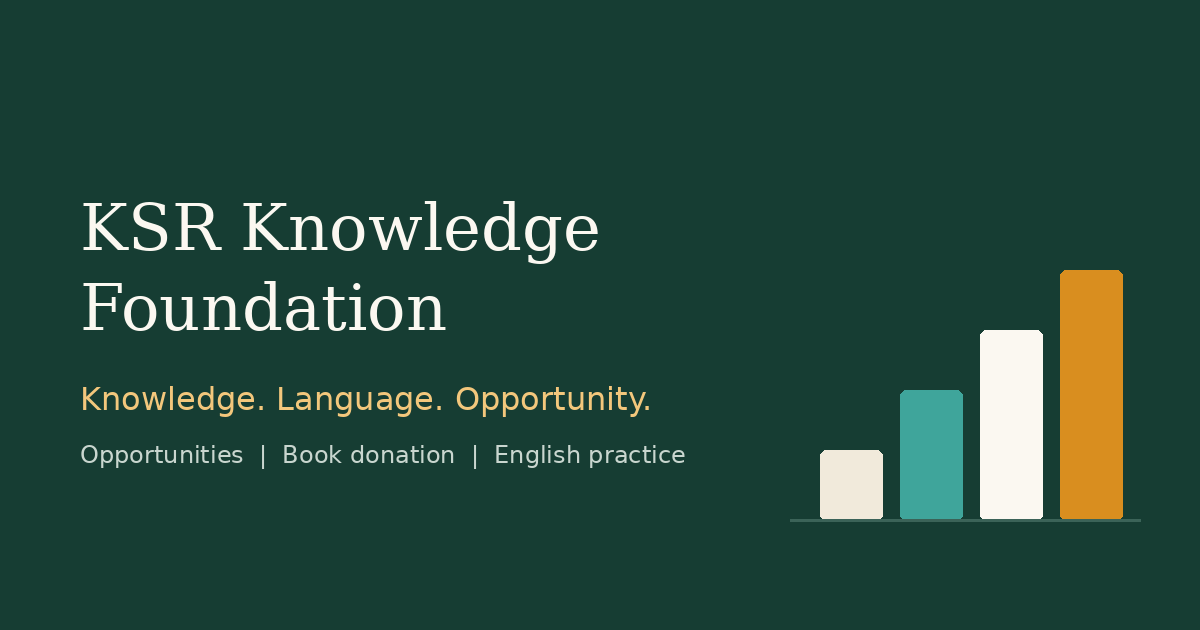
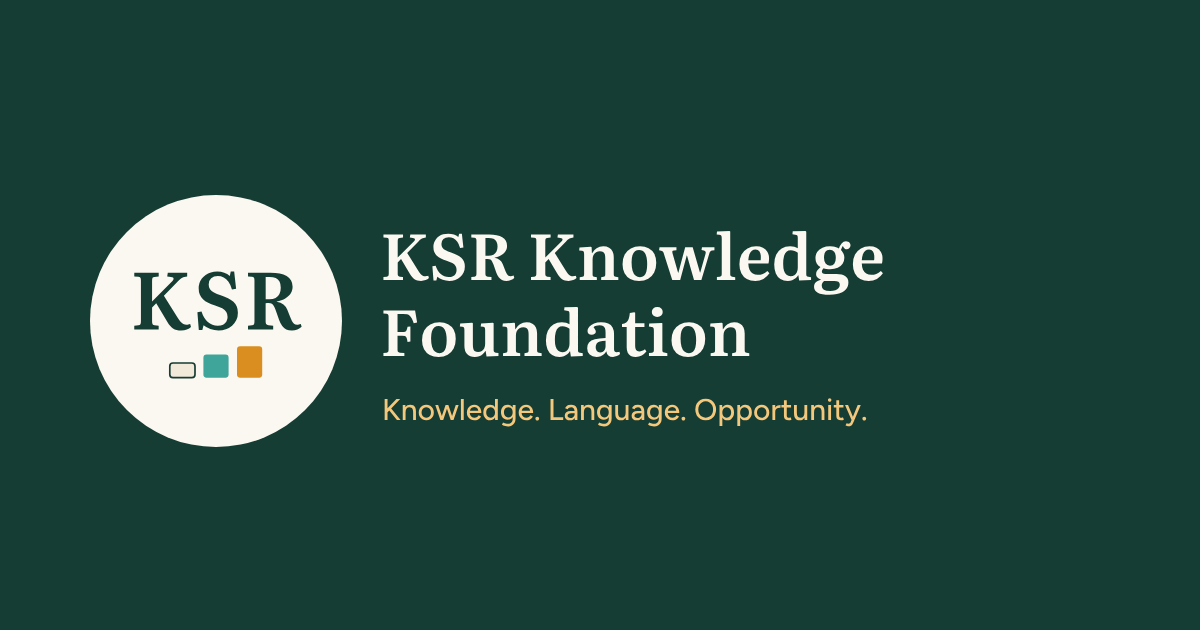
Add files via upload

Changed region(s): [[0.0617, 0.3016, 0.74, 0.754], [0.6475, 0.4222, 0.9558, 0.8444]]

diff --git a/about.html b/about.html
@@ -27,7 +27,7 @@
 <a class="skip-link" href="#main">Skip to content</a>
 <header class="site-header">
   <div class="wrap header-inner">
-    <a class="brand" href="index.html"><svg class="brand-mark" viewBox="0 0 36 36" aria-hidden="true"><rect width="36" height="36" rx="9" fill="#163D33"/><rect x="7" y="19" width="6" height="10" rx="1.2" fill="#F1EADB"/><rect x="15" y="13" width="6" height="16" rx="1.2" fill="#3FA59B"/><rect x="23" y="7" width="6" height="22" rx="1.2" fill="#D98E1F"/></svg><span class="brand-name"><span data-org>KSR Knowledge Foundation</span><small data-tagline>Knowledge. Language. Opportunity.</small></span></a>
+    <a class="brand" href="index.html"><img class="brand-mark" src="logo.svg" width="40" height="40" alt=""><span class="brand-name"><span data-org>KSR Knowledge Foundation</span><small data-tagline>Knowledge. Language. Opportunity.</small></span></a>
     <button class="nav-toggle" type="button" aria-expanded="false" aria-controls="site-nav"><svg width="18" height="18" viewBox="0 0 18 18" aria-hidden="true"><path d="M2 4h14M2 9h14M2 14h14" stroke="currentColor" stroke-width="2" stroke-linecap="round"/></svg><span>Menu</span></button>
     <nav class="site-nav" id="site-nav" aria-label="Main">
       <ul class="nav-list"><li class="nav-home"><a href="index.html">Home</a></li><li><a href="about.html" aria-current="page">About</a></li><li><a href="opportunities.html">Opportunities</a></li><li><a href="books.html">Books</a></li><li><a href="english.html">English</a></li><li><a href="events.html">Events</a></li><li><a href="learn.html">Learning hub</a></li><li><a href="get-involved.html">Get involved</a></li><li><a href="contact.html">Contact</a></li><li><a class="btn btn-primary" href="join.html">Join</a></li></ul>

diff --git a/books.html b/books.html
@@ -27,7 +27,7 @@
 <a class="skip-link" href="#main">Skip to content</a>
 <header class="site-header">
   <div class="wrap header-inner">
-    <a class="brand" href="index.html"><svg class="brand-mark" viewBox="0 0 36 36" aria-hidden="true"><rect width="36" height="36" rx="9" fill="#163D33"/><rect x="7" y="19" width="6" height="10" rx="1.2" fill="#F1EADB"/><rect x="15" y="13" width="6" height="16" rx="1.2" fill="#3FA59B"/><rect x="23" y="7" width="6" height="22" rx="1.2" fill="#D98E1F"/></svg><span class="brand-name"><span data-org>KSR Knowledge Foundation</span><small data-tagline>Knowledge. Language. Opportunity.</small></span></a>
+    <a class="brand" href="index.html"><img class="brand-mark" src="logo.svg" width="40" height="40" alt=""><span class="brand-name"><span data-org>KSR Knowledge Foundation</span><small data-tagline>Knowledge. Language. Opportunity.</small></span></a>
     <button class="nav-toggle" type="button" aria-expanded="false" aria-controls="site-nav"><svg width="18" height="18" viewBox="0 0 18 18" aria-hidden="true"><path d="M2 4h14M2 9h14M2 14h14" stroke="currentColor" stroke-width="2" stroke-linecap="round"/></svg><span>Menu</span></button>
     <nav class="site-nav" id="site-nav" aria-label="Main">
       <ul class="nav-list"><li class="nav-home"><a href="index.html">Home</a></li><li><a href="about.html">About</a></li><li><a href="opportunities.html">Opportunities</a></li><li><a href="books.html" aria-current="page">Books</a></li><li><a href="english.html">English</a></li><li><a href="events.html">Events</a></li><li><a href="learn.html">Learning hub</a></li><li><a href="get-involved.html">Get involved</a></li><li><a href="contact.html">Contact</a></li><li><a class="btn btn-primary" href="join.html">Join</a></li></ul>

diff --git a/contact.html b/contact.html
@@ -27,7 +27,7 @@
 <a class="skip-link" href="#main">Skip to content</a>
 <header class="site-header">
   <div class="wrap header-inner">
-    <a class="brand" href="index.html"><svg class="brand-mark" viewBox="0 0 36 36" aria-hidden="true"><rect width="36" height="36" rx="9" fill="#163D33"/><rect x="7" y="19" width="6" height="10" rx="1.2" fill="#F1EADB"/><rect x="15" y="13" width="6" height="16" rx="1.2" fill="#3FA59B"/><rect x="23" y="7" width="6" height="22" rx="1.2" fill="#D98E1F"/></svg><span class="brand-name"><span data-org>KSR Knowledge Foundation</span><small data-tagline>Knowledge. Language. Opportunity.</small></span></a>
+    <a class="brand" href="index.html"><img class="brand-mark" src="logo.svg" width="40" height="40" alt=""><span class="brand-name"><span data-org>KSR Knowledge Foundation</span><small data-tagline>Knowledge. Language. Opportunity.</small></span></a>
     <button class="nav-toggle" type="button" aria-expanded="false" aria-controls="site-nav"><svg width="18" height="18" viewBox="0 0 18 18" aria-hidden="true"><path d="M2 4h14M2 9h14M2 14h14" stroke="currentColor" stroke-width="2" stroke-linecap="round"/></svg><span>Menu</span></button>
     <nav class="site-nav" id="site-nav" aria-label="Main">
       <ul class="nav-list"><li class="nav-home"><a href="index.html">Home</a></li><li><a href="about.html">About</a></li><li><a href="opportunities.html">Opportunities</a></li><li><a href="books.html">Books</a></li><li><a href="english.html">English</a></li><li><a href="events.html">Events</a></li><li><a href="learn.html">Learning hub</a></li><li><a href="get-involved.html">Get involved</a></li><li><a href="contact.html" aria-current="page">Contact</a></li><li><a class="btn btn-primary" href="join.html">Join</a></li></ul>

diff --git a/english.html b/english.html
@@ -27,7 +27,7 @@
 <a class="skip-link" href="#main">Skip to content</a>
 <header class="site-header">
   <div class="wrap header-inner">
-    <a class="brand" href="index.html"><svg class="brand-mark" viewBox="0 0 36 36" aria-hidden="true"><rect width="36" height="36" rx="9" fill="#163D33"/><rect x="7" y="19" width="6" height="10" rx="1.2" fill="#F1EADB"/><rect x="15" y="13" width="6" height="16" rx="1.2" fill="#3FA59B"/><rect x="23" y="7" width="6" height="22" rx="1.2" fill="#D98E1F"/></svg><span class="brand-name"><span data-org>KSR Knowledge Foundation</span><small data-tagline>Knowledge. Language. Opportunity.</small></span></a>
+    <a class="brand" href="index.html"><img class="brand-mark" src="logo.svg" width="40" height="40" alt=""><span class="brand-name"><span data-org>KSR Knowledge Foundation</span><small data-tagline>Knowledge. Language. Opportunity.</small></span></a>
     <button class="nav-toggle" type="button" aria-expanded="false" aria-controls="site-nav"><svg width="18" height="18" viewBox="0 0 18 18" aria-hidden="true"><path d="M2 4h14M2 9h14M2 14h14" stroke="currentColor" stroke-width="2" stroke-linecap="round"/></svg><span>Menu</span></button>
     <nav class="site-nav" id="site-nav" aria-label="Main">
       <ul class="nav-list"><li class="nav-home"><a href="index.html">Home</a></li><li><a href="about.html">About</a></li><li><a href="opportunities.html">Opportunities</a></li><li><a href="books.html">Books</a></li><li><a href="english.html" aria-current="page">English</a></li><li><a href="events.html">Events</a></li><li><a href="learn.html">Learning hub</a></li><li><a href="get-involved.html">Get involved</a></li><li><a href="contact.html">Contact</a></li><li><a class="btn btn-primary" href="join.html">Join</a></li></ul>

diff --git a/events.html b/events.html
@@ -27,7 +27,7 @@
 <a class="skip-link" href="#main">Skip to content</a>
 <header class="site-header">
   <div class="wrap header-inner">
-    <a class="brand" href="index.html"><svg class="brand-mark" viewBox="0 0 36 36" aria-hidden="true"><rect width="36" height="36" rx="9" fill="#163D33"/><rect x="7" y="19" width="6" height="10" rx="1.2" fill="#F1EADB"/><rect x="15" y="13" width="6" height="16" rx="1.2" fill="#3FA59B"/><rect x="23" y="7" width="6" height="22" rx="1.2" fill="#D98E1F"/></svg><span class="brand-name"><span data-org>KSR Knowledge Foundation</span><small data-tagline>Knowledge. Language. Opportunity.</small></span></a>
+    <a class="brand" href="index.html"><img class="brand-mark" src="logo.svg" width="40" height="40" alt=""><span class="brand-name"><span data-org>KSR Knowledge Foundation</span><small data-tagline>Knowledge. Language. Opportunity.</small></span></a>
     <button class="nav-toggle" type="button" aria-expanded="false" aria-controls="site-nav"><svg width="18" height="18" viewBox="0 0 18 18" aria-hidden="true"><path d="M2 4h14M2 9h14M2 14h14" stroke="currentColor" stroke-width="2" stroke-linecap="round"/></svg><span>Menu</span></button>
     <nav class="site-nav" id="site-nav" aria-label="Main">
       <ul class="nav-list"><li class="nav-home"><a href="index.html">Home</a></li><li><a href="about.html">About</a></li><li><a href="opportunities.html">Opportunities</a></li><li><a href="books.html">Books</a></li><li><a href="english.html">English</a></li><li><a href="events.html" aria-current="page">Events</a></li><li><a href="learn.html">Learning hub</a></li><li><a href="get-involved.html">Get involved</a></li><li><a href="contact.html">Contact</a></li><li><a class="btn btn-primary" href="join.html">Join</a></li></ul>

diff --git a/get-involved.html b/get-involved.html
@@ -27,7 +27,7 @@
 <a class="skip-link" href="#main">Skip to content</a>
 <header class="site-header">
   <div class="wrap header-inner">
-    <a class="brand" href="index.html"><svg class="brand-mark" viewBox="0 0 36 36" aria-hidden="true"><rect width="36" height="36" rx="9" fill="#163D33"/><rect x="7" y="19" width="6" height="10" rx="1.2" fill="#F1EADB"/><rect x="15" y="13" width="6" height="16" rx="1.2" fill="#3FA59B"/><rect x="23" y="7" width="6" height="22" rx="1.2" fill="#D98E1F"/></svg><span class="brand-name"><span data-org>KSR Knowledge Foundation</span><small data-tagline>Knowledge. Language. Opportunity.</small></span></a>
+    <a class="brand" href="index.html"><img class="brand-mark" src="logo.svg" width="40" height="40" alt=""><span class="brand-name"><span data-org>KSR Knowledge Foundation</span><small data-tagline>Knowledge. Language. Opportunity.</small></span></a>
     <button class="nav-toggle" type="button" aria-expanded="false" aria-controls="site-nav"><svg width="18" height="18" viewBox="0 0 18 18" aria-hidden="true"><path d="M2 4h14M2 9h14M2 14h14" stroke="currentColor" stroke-width="2" stroke-linecap="round"/></svg><span>Menu</span></button>
     <nav class="site-nav" id="site-nav" aria-label="Main">
       <ul class="nav-list"><li class="nav-home"><a href="index.html">Home</a></li><li><a href="about.html">About</a></li><li><a href="opportunities.html">Opportunities</a></li><li><a href="books.html">Books</a></li><li><a href="english.html">English</a></li><li><a href="events.html">Events</a></li><li><a href="learn.html">Learning hub</a></li><li><a href="get-involved.html" aria-current="page">Get involved</a></li><li><a href="contact.html">Contact</a></li><li><a class="btn btn-primary" href="join.html">Join</a></li></ul>

diff --git a/index.html b/index.html
@@ -27,7 +27,7 @@
 <a class="skip-link" href="#main">Skip to content</a>
 <header class="site-header">
   <div class="wrap header-inner">
-    <a class="brand" href="index.html"><svg class="brand-mark" viewBox="0 0 36 36" aria-hidden="true"><rect width="36" height="36" rx="9" fill="#163D33"/><rect x="7" y="19" width="6" height="10" rx="1.2" fill="#F1EADB"/><rect x="15" y="13" width="6" height="16" rx="1.2" fill="#3FA59B"/><rect x="23" y="7" width="6" height="22" rx="1.2" fill="#D98E1F"/></svg><span class="brand-name"><span data-org>KSR Knowledge Foundation</span><small data-tagline>Knowledge. Language. Opportunity.</small></span></a>
+    <a class="brand" href="index.html"><img class="brand-mark" src="logo.svg" width="40" height="40" alt=""><span class="brand-name"><span data-org>KSR Knowledge Foundation</span><small data-tagline>Knowledge. Language. Opportunity.</small></span></a>
     <button class="nav-toggle" type="button" aria-expanded="false" aria-controls="site-nav"><svg width="18" height="18" viewBox="0 0 18 18" aria-hidden="true"><path d="M2 4h14M2 9h14M2 14h14" stroke="currentColor" stroke-width="2" stroke-linecap="round"/></svg><span>Menu</span></button>
     <nav class="site-nav" id="site-nav" aria-label="Main">
       <ul class="nav-list"><li class="nav-home"><a href="index.html" aria-current="page">Home</a></li><li><a href="about.html">About</a></li><li><a href="opportunities.html">Opportunities</a></li><li><a href="books.html">Books</a></li><li><a href="english.html">English</a></li><li><a href="events.html">Events</a></li><li><a href="learn.html">Learning hub</a></li><li><a href="get-involved.html">Get involved</a></li><li><a href="contact.html">Contact</a></li><li><a class="btn btn-primary" href="join.html">Join</a></li></ul>

diff --git a/join.html b/join.html
@@ -27,7 +27,7 @@
 <a class="skip-link" href="#main">Skip to content</a>
 <header class="site-header">
   <div class="wrap header-inner">
-    <a class="brand" href="index.html"><svg class="brand-mark" viewBox="0 0 36 36" aria-hidden="true"><rect width="36" height="36" rx="9" fill="#163D33"/><rect x="7" y="19" width="6" height="10" rx="1.2" fill="#F1EADB"/><rect x="15" y="13" width="6" height="16" rx="1.2" fill="#3FA59B"/><rect x="23" y="7" width="6" height="22" rx="1.2" fill="#D98E1F"/></svg><span class="brand-name"><span data-org>KSR Knowledge Foundation</span><small data-tagline>Knowledge. Language. Opportunity.</small></span></a>
+    <a class="brand" href="index.html"><img class="brand-mark" src="logo.svg" width="40" height="40" alt=""><span class="brand-name"><span data-org>KSR Knowledge Foundation</span><small data-tagline>Knowledge. Language. Opportunity.</small></span></a>
     <button class="nav-toggle" type="button" aria-expanded="false" aria-controls="site-nav"><svg width="18" height="18" viewBox="0 0 18 18" aria-hidden="true"><path d="M2 4h14M2 9h14M2 14h14" stroke="currentColor" stroke-width="2" stroke-linecap="round"/></svg><span>Menu</span></button>
     <nav class="site-nav" id="site-nav" aria-label="Main">
       <ul class="nav-list"><li class="nav-home"><a href="index.html">Home</a></li><li><a href="about.html">About</a></li><li><a href="opportunities.html">Opportunities</a></li><li><a href="books.html">Books</a></li><li><a href="english.html">English</a></li><li><a href="events.html">Events</a></li><li><a href="learn.html">Learning hub</a></li><li><a href="get-involved.html">Get involved</a></li><li><a href="contact.html">Contact</a></li><li><a class="btn btn-primary" href="join.html" aria-current="page">Join</a></li></ul>

diff --git a/learn.html b/learn.html
@@ -27,7 +27,7 @@
 <a class="skip-link" href="#main">Skip to content</a>
 <header class="site-header">
   <div class="wrap header-inner">
-    <a class="brand" href="index.html"><svg class="brand-mark" viewBox="0 0 36 36" aria-hidden="true"><rect width="36" height="36" rx="9" fill="#163D33"/><rect x="7" y="19" width="6" height="10" rx="1.2" fill="#F1EADB"/><rect x="15" y="13" width="6" height="16" rx="1.2" fill="#3FA59B"/><rect x="23" y="7" width="6" height="22" rx="1.2" fill="#D98E1F"/></svg><span class="brand-name"><span data-org>KSR Knowledge Foundation</span><small data-tagline>Knowledge. Language. Opportunity.</small></span></a>
+    <a class="brand" href="index.html"><img class="brand-mark" src="logo.svg" width="40" height="40" alt=""><span class="brand-name"><span data-org>KSR Knowledge Foundation</span><small data-tagline>Knowledge. Language. Opportunity.</small></span></a>
     <button class="nav-toggle" type="button" aria-expanded="false" aria-controls="site-nav"><svg width="18" height="18" viewBox="0 0 18 18" aria-hidden="true"><path d="M2 4h14M2 9h14M2 14h14" stroke="currentColor" stroke-width="2" stroke-linecap="round"/></svg><span>Menu</span></button>
     <nav class="site-nav" id="site-nav" aria-label="Main">
       <ul class="nav-list"><li class="nav-home"><a href="index.html">Home</a></li><li><a href="about.html">About</a></li><li><a href="opportunities.html">Opportunities</a></li><li><a href="books.html">Books</a></li><li><a href="english.html">English</a></li><li><a href="events.html">Events</a></li><li><a href="learn.html" aria-current="page">Learning hub</a></li><li><a href="get-involved.html">Get involved</a></li><li><a href="contact.html">Contact</a></li><li><a class="btn btn-primary" href="join.html">Join</a></li></ul>

diff --git a/opportunities.html b/opportunities.html
@@ -27,7 +27,7 @@
 <a class="skip-link" href="#main">Skip to content</a>
 <header class="site-header">
   <div class="wrap header-inner">
-    <a class="brand" href="index.html"><svg class="brand-mark" viewBox="0 0 36 36" aria-hidden="true"><rect width="36" height="36" rx="9" fill="#163D33"/><rect x="7" y="19" width="6" height="10" rx="1.2" fill="#F1EADB"/><rect x="15" y="13" width="6" height="16" rx="1.2" fill="#3FA59B"/><rect x="23" y="7" width="6" height="22" rx="1.2" fill="#D98E1F"/></svg><span class="brand-name"><span data-org>KSR Knowledge Foundation</span><small data-tagline>Knowledge. Language. Opportunity.</small></span></a>
+    <a class="brand" href="index.html"><img class="brand-mark" src="logo.svg" width="40" height="40" alt=""><span class="brand-name"><span data-org>KSR Knowledge Foundation</span><small data-tagline>Knowledge. Language. Opportunity.</small></span></a>
     <button class="nav-toggle" type="button" aria-expanded="false" aria-controls="site-nav"><svg width="18" height="18" viewBox="0 0 18 18" aria-hidden="true"><path d="M2 4h14M2 9h14M2 14h14" stroke="currentColor" stroke-width="2" stroke-linecap="round"/></svg><span>Menu</span></button>
     <nav class="site-nav" id="site-nav" aria-label="Main">
       <ul class="nav-list"><li class="nav-home"><a href="index.html">Home</a></li><li><a href="about.html">About</a></li><li><a href="opportunities.html" aria-current="page">Opportunities</a></li><li><a href="books.html">Books</a></li><li><a href="english.html">English</a></li><li><a href="events.html">Events</a></li><li><a href="learn.html">Learning hub</a></li><li><a href="get-involved.html">Get involved</a></li><li><a href="contact.html">Contact</a></li><li><a class="btn btn-primary" href="join.html">Join</a></li></ul>

diff --git a/404.html b/404.html
@@ -27,7 +27,7 @@
 <a class="skip-link" href="#main">Skip to content</a>
 <header class="site-header">
   <div class="wrap header-inner">
-    <a class="brand" href="index.html"><svg class="brand-mark" viewBox="0 0 36 36" aria-hidden="true"><rect width="36" height="36" rx="9" fill="#163D33"/><rect x="7" y="19" width="6" height="10" rx="1.2" fill="#F1EADB"/><rect x="15" y="13" width="6" height="16" rx="1.2" fill="#3FA59B"/><rect x="23" y="7" width="6" height="22" rx="1.2" fill="#D98E1F"/></svg><span class="brand-name"><span data-org>KSR Knowledge Foundation</span><small data-tagline>Knowledge. Language. Opportunity.</small></span></a>
+    <a class="brand" href="index.html"><img class="brand-mark" src="logo.svg" width="40" height="40" alt=""><span class="brand-name"><span data-org>KSR Knowledge Foundation</span><small data-tagline>Knowledge. Language. Opportunity.</small></span></a>
     <button class="nav-toggle" type="button" aria-expanded="false" aria-controls="site-nav"><svg width="18" height="18" viewBox="0 0 18 18" aria-hidden="true"><path d="M2 4h14M2 9h14M2 14h14" stroke="currentColor" stroke-width="2" stroke-linecap="round"/></svg><span>Menu</span></button>
     <nav class="site-nav" id="site-nav" aria-label="Main">
       <ul class="nav-list"><li class="nav-home"><a href="index.html">Home</a></li><li><a href="about.html">About</a></li><li><a href="opportunities.html">Opportunities</a></li><li><a href="books.html">Books</a></li><li><a href="english.html">English</a></li><li><a href="events.html">Events</a></li><li><a href="learn.html">Learning hub</a></li><li><a href="get-involved.html">Get involved</a></li><li><a href="contact.html">Contact</a></li><li><a class="btn btn-primary" href="join.html">Join</a></li></ul>

diff --git a/donate.html b/donate.html
@@ -27,7 +27,7 @@
 <a class="skip-link" href="#main">Skip to content</a>
 <header class="site-header">
   <div class="wrap header-inner">
-    <a class="brand" href="index.html"><svg class="brand-mark" viewBox="0 0 36 36" aria-hidden="true"><rect width="36" height="36" rx="9" fill="#163D33"/><rect x="7" y="19" width="6" height="10" rx="1.2" fill="#F1EADB"/><rect x="15" y="13" width="6" height="16" rx="1.2" fill="#3FA59B"/><rect x="23" y="7" width="6" height="22" rx="1.2" fill="#D98E1F"/></svg><span class="brand-name"><span data-org>KSR Knowledge Foundation</span><small data-tagline>Knowledge. Language. Opportunity.</small></span></a>
+    <a class="brand" href="index.html"><img class="brand-mark" src="logo.svg" width="40" height="40" alt=""><span class="brand-name"><span data-org>KSR Knowledge Foundation</span><small data-tagline>Knowledge. Language. Opportunity.</small></span></a>
     <button class="nav-toggle" type="button" aria-expanded="false" aria-controls="site-nav"><svg width="18" height="18" viewBox="0 0 18 18" aria-hidden="true"><path d="M2 4h14M2 9h14M2 14h14" stroke="currentColor" stroke-width="2" stroke-linecap="round"/></svg><span>Menu</span></button>
     <nav class="site-nav" id="site-nav" aria-label="Main">
       <ul class="nav-list"><li class="nav-home"><a href="index.html">Home</a></li><li><a href="about.html">About</a></li><li><a href="opportunities.html">Opportunities</a></li><li><a href="books.html">Books</a></li><li><a href="english.html">English</a></li><li><a href="events.html">Events</a></li><li><a href="learn.html">Learning hub</a></li><li><a href="get-involved.html">Get involved</a></li><li><a href="contact.html">Contact</a></li><li><a class="btn btn-primary" href="join.html">Join</a></li></ul>
